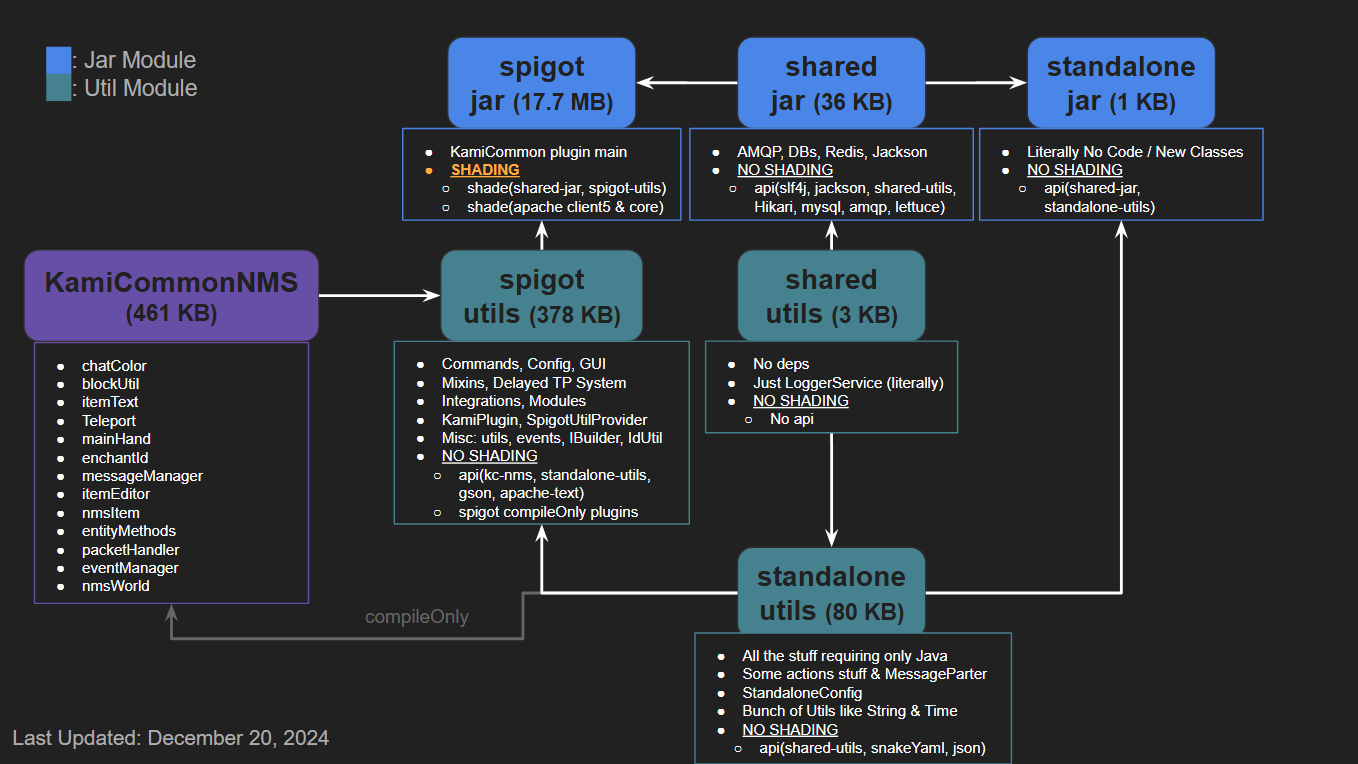
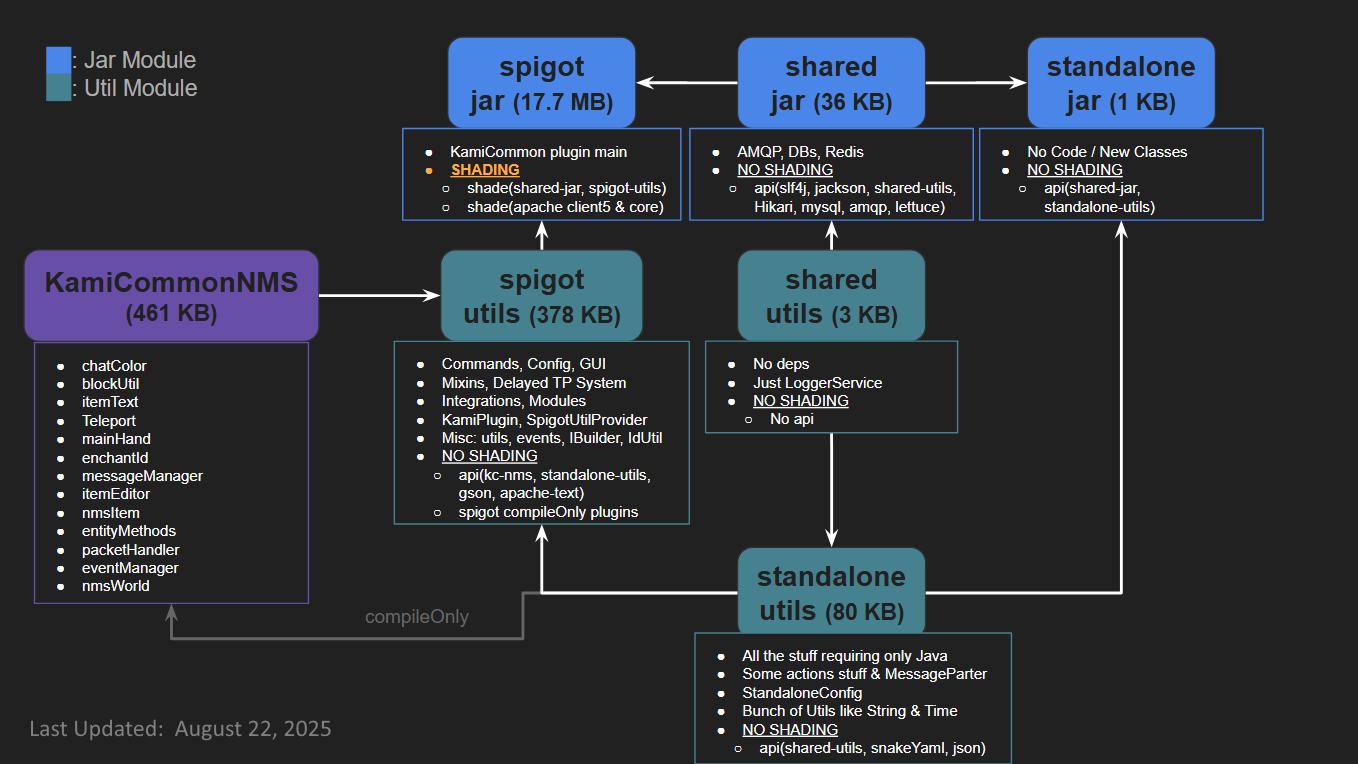
5.0.0-alpha.13 - Remove the "raw" methods and classes from Redis, since in a previous commit we removed the Jackson serialization functionality, making all methods 'raw' methods according to the previous meaning.
Took 11 minutes

diff --git a/shared-jar/src/main/java/com/kamikazejam/kamicommon/redis/RedisManager.java b/shared-jar/src/main/java/com/kamikazejam/kamicommon/redis/RedisManager.java
@@ -187,44 +187,7 @@ class RedisManager implements Service {
         }
     }
 
-    boolean subscribeRaw(@NotNull RedisChannelCallback callback, @NotNull String... channels) {
-        try {
-            logger.info("Subscribing to channels: " + String.join(", ", channels));
-
-            // Ensure we have a valid reactive connection
-            if (reactive == null) {
-                reactive = redisPubSub.reactive();
-            }
-            final List<String> channelList = List.of(channels);
-
-            // Subscribe to the channel
-            reactive.subscribe(channels).subscribe();
-            // Register an Observer
-            reactive.observeChannels()
-                    // Listen to our channels only
-                    .filter(pm -> channelList.contains(pm.getChannel()))
-                    // Deserialize the message and call the callback
-                    .doOnNext(pm -> callback.onMessage(pm.getChannel(), pm.getMessage()))
-                    .subscribe();
-
-            subscribedChannels.addAll(channelList);
-            return true;
-        } catch (Exception ex) {
-            logger.info(ex, "Error subscribing");
-            return false;
-        }
-    }
-
     void publish(@NotNull String channel, String message, boolean sync) {
-        // Publish a message to the channel
-        if (sync) {
-            redis.sync().publish(channel, message);
-        }else {
-            redis.async().publish(channel, message);
-        }
-    }
-
-    void publishRaw(@NotNull String channel, @NotNull String message, boolean sync) {
         // Publish a message to the channel
         if (sync) {
             redis.sync().publish(channel, message);

diff --git a/shared-jar/src/main/java/com/kamikazejam/kamicommon/redis/RedisMultiChannel.java b/shared-jar/src/main/java/com/kamikazejam/kamicommon/redis/RedisMultiChannel.java
@@ -35,17 +35,4 @@ public class RedisMultiChannel {
         }
         manager.publish(channel, message, sync);
     }
-
-    public void publishRawSync(@NotNull String channel, @NotNull String message) {
-        this.publishRaw(channel, message, true);
-    }
-    public void publishRawAsync(@NotNull String channel, @NotNull String message) {
-        this.publishRaw(channel, message, false);
-    }
-    public void publishRaw(@NotNull String channel, @NotNull String message, boolean sync) {
-        if (!channels.contains(channel)) {
-            throw new IllegalArgumentException("Channel " + channel + " is not part of this RedisMultiChannel");
-        }
-        manager.publishRaw(channel, message, sync);
-    }
 }

diff --git a/shared-jar/src/main/java/com/kamikazejam/kamicommon/redis/RedisChannel.java b/shared-jar/src/main/java/com/kamikazejam/kamicommon/redis/RedisChannel.java
@@ -30,14 +30,4 @@ public class RedisChannel {
     public void publish(@NotNull String message, boolean sync) {
         manager.publish(channel, message, sync);
     }
-
-    public void publishRawSync(@NotNull String message) {
-        manager.publishRaw(channel, message, true);
-    }
-    public void publishRawAsync(@NotNull String message) {
-        manager.publishRaw(channel, message, false);
-    }
-    public void publishRaw(@NotNull String message, boolean sync) {
-        manager.publishRaw(channel, message, sync);
-    }
 }

diff --git a/shared-jar/src/main/java/com/kamikazejam/kamicommon/redis/RedisAPI.java b/shared-jar/src/main/java/com/kamikazejam/kamicommon/redis/RedisAPI.java
@@ -34,9 +34,6 @@ public class RedisAPI {
     public @NotNull RedisMultiChannel registerMultiChannel(@NotNull String... channels) {
         return new RedisMultiChannel(manager, channels);
     }
-    public @NotNull RedisChannelRaw registerChannelRaw(@NotNull String channel) {
-        return new RedisChannelRaw(manager, channel);
-    }
 
     public RedisCommands<String, String> getCmdsSync() {
         return manager.getRedis().sync();
